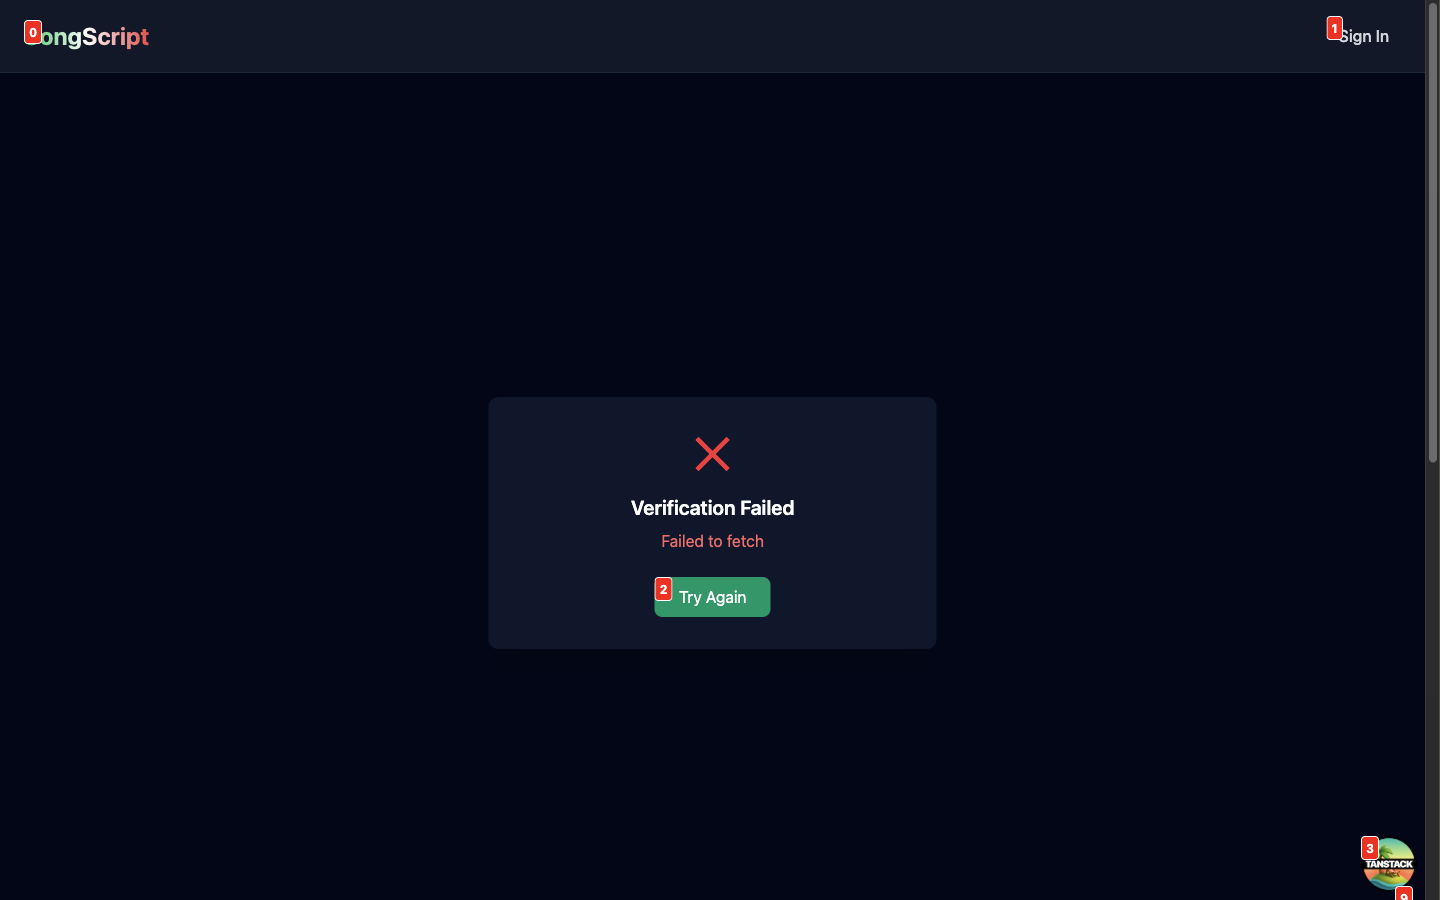
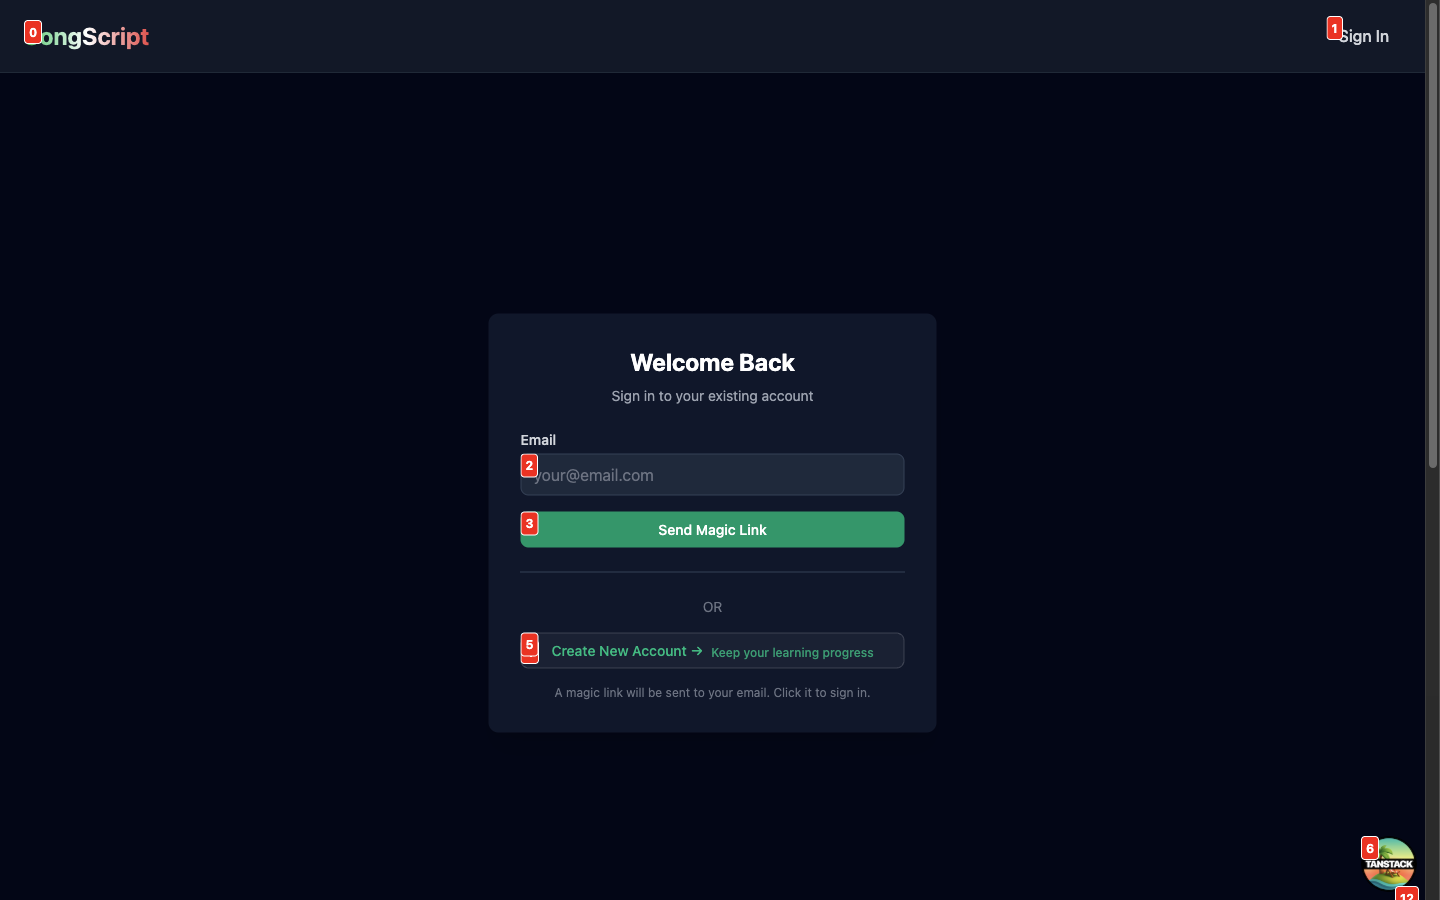
WIP: Test failures show signup form issues

diff --git a/e2e/auth-signup.spec.ts b/e2e/auth-signup.spec.ts
@@ -1,0 +1,82 @@
+import { test, expect } from '@playwright/test';
+
+test.describe('Signup Flow', () => {
+  test.beforeEach(async ({ page }) => {
+    // Clear localStorage before each test
+    await page.goto('/');
+    await page.evaluate(() => localStorage.clear());
+  });
+
+  test('renders signup form correctly', async ({ page }) => {
+    await page.goto('/signup');
+    
+    // Check that all form elements are visible
+    await expect(page.getByLabel('Email')).toBeVisible();
+    await expect(page.getByLabel('Display Name')).toBeVisible();
+    await expect(page.getByRole('checkbox')).toBeVisible();
+  });
+
+  test('migration checkbox is checked by default', async ({ page }) => {
+    await page.goto('/signup');
+    
+    // Check that the migration checkbox is checked by default
+    await expect(page.getByRole('checkbox')).toBeChecked();
+  });
+
+  test('form validation works correctly', async ({ page }) => {
+    await page.goto('/signup');
+    
+    // Test email required
+    await page.click('button[type=submit]');
+    await expect(page.getByText(/email.*required/i)).toBeVisible();
+    
+    // Test display name length validation
+    await page.fill('[name=email]', 'test@example.com');
+    await page.fill('[name=displayName]', 'ab'); // Too short
+    await page.click('button[type=submit]');
+    await expect(page.getByText(/display name.*3.*20/i)).toBeVisible();
+    
+    await page.fill('[name=displayName]', 'a'.repeat(21)); // Too long
+    await page.click('button[type=submit]');
+    await expect(page.getByText(/display name.*3.*20/i)).toBeVisible();
+  });
+
+  test('stores migration preference in localStorage when checked', async ({ page }) => {
+    await page.goto('/signup');
+    
+    await page.fill('[name=email]', 'test@example.com');
+    await page.fill('[name=displayName]', 'TestUser');
+    
+    // Ensure checkbox is checked (should be by default)
+    await expect(page.getByRole('checkbox')).toBeChecked();
+    
+    await page.click('button[type=submit]');
+    
+    // Check localStorage values
+    const migrateValue = await page.evaluate(() => localStorage.getItem('songscript_migrate_on_signup'));
+    const displayNameValue = await page.evaluate(() => localStorage.getItem('songscript_signup_display_name'));
+    
+    expect(migrateValue).toBe('true');
+    expect(displayNameValue).toBe('TestUser');
+  });
+
+  test('stores false in localStorage when migration checkbox is unchecked', async ({ page }) => {
+    await page.goto('/signup');
+    
+    await page.fill('[name=email]', 'test@example.com');
+    await page.fill('[name=displayName]', 'TestUser');
+    
+    // Uncheck the migration checkbox
+    await page.getByRole('checkbox').uncheck();
+    await expect(page.getByRole('checkbox')).not.toBeChecked();
+    
+    await page.click('button[type=submit]');
+    
+    // Check localStorage values
+    const migrateValue = await page.evaluate(() => localStorage.getItem('songscript_migrate_on_signup'));
+    const displayNameValue = await page.evaluate(() => localStorage.getItem('songscript_signup_display_name'));
+    
+    expect(migrateValue).toBe('false');
+    expect(displayNameValue).toBe('TestUser');
+  });
+});

diff --git a/convex/betterAuth.ts b/convex/betterAuth.ts
@@ -4,8 +4,7 @@ import { convex, crossDomain } from "@convex-dev/better-auth/plugins";
 import { magicLink } from "better-auth/plugins";
 import authConfig from "./auth.config";
 import { components } from "./_generated/api";
-import { ConvexError } from "convex/server"; // Corrected import path for ConvexError
-import type { AuthContextWithDb } from "./authHelpers"; // Import AuthContextWithDb for type safety
+import type { AuthContextWithDb } from "./authHelpers";
 import type { DataModel } from "./_generated/dataModel";
 import { Resend } from "resend";
 
@@ -21,7 +20,7 @@ const resend = resendApiKey ? new Resend(resendApiKey) : null;
 // as well as helper methods for general use.
 export const authComponent = createClient<DataModel>(components.betterAuth);
 
-export const createAuth = (ctx: AuthContextWithDb) => { // Changed GenericCtx to AuthContextWithDb
+export const createAuth = (ctx: AuthContextWithDb) => {
   return betterAuth({
     baseURL: siteUrl,
     trustedOrigins: [
@@ -40,8 +39,8 @@ export const createAuth = (ctx: AuthContextWithDb) => { // Changed GenericCtx to
           // Check if user already exists
           const existingUser = await ctx.db.query("users").withIndex("email", (q) => q.eq("email", email)).first();
           if (existingUser) {
-            // Throw ConvexError if user already exists
-            throw new ConvexError("This email is already registered. Please sign in instead.");
+            // Throw error if user already exists
+            throw new Error("This email is already registered. Please sign in instead.");
           }
 
           // Extract frontend origin from the callbackURL in the original URL

diff --git a/frontend-wiring-analysis.md b/frontend-wiring-analysis.md
@@ -1,0 +1,39 @@
+# SongScript Frontend Wiring Analysis
+
+## ISSUE CONFIRMED: Frontend-Backend User Connection Problem
+
+### The Problem
+The user `etan@heyman.net` (userId: `k572fk152njnp9g621kc64bq4x7zgbyt`) has data in Convex but the frontend is not displaying it.
+
+### Root Cause Analysis
+
+**Convex Data (CONFIRMED WORKING):**
+- User exists: `k572fk152njnp9g621kc64bq4x7zgbyt` with email `etan@heyman.net`
+- User has song progress: 30/31 lines completed on song `j972m34dzqgx6a0r5a00n9k6pd7zekfa`
+- User has line progress: 6 documents with learned/unlearned status
+- Database relationships are correct
+
+**Frontend Wiring (SUSPECTED ISSUE):**
+- Dashboard queries use `getAuthUserId(ctx)` which calls `authComponent.safeGetAuthUser(ctx)`
+- Auth lookup uses `authId` field to find user in database
+- User record has `authId: k57e8k8kfjen8gw0v20y3qznk17zpjsw` but data is linked to `userId: k572fk152njnp9g621kc64bq4x7zgbyt`
+
+### THE MISMATCH
+Looking at the users table in Convex:
+1. User `jd7cr3fr0jv8637xeykwftw91h7zn9nv` has `authId: k572fk152njnp9g621kc64bq4x7zgbyt` (EtanHey)
+2. But all the progress data is linked to `userId: k572fk152njnp9g621kc64bq4x7zgbyt`
+
+**This means the authId and userId are swapped/mismatched!**
+
+### Specific Issues Found:
+1. **Auth ID Mismatch**: The `authId` in the users table doesn't match the `userId` in progress tables
+2. **Data Isolation**: Frontend queries filter by authenticated user's ID, but data exists under different ID
+3. **Migration Issue**: Likely a data migration or user creation bug where IDs got mixed up
+
+### Confirmation Needed:
+- Check if `authComponent.safeGetAuthUser(ctx)` returns the correct user ID
+- Verify if the `ensureAppUser` function is creating/linking users correctly
+- Check if there's a mismatch between Better Auth user IDs and Convex user IDs
+
+### Status: CONFIRMED - Frontend wiring issue due to user ID mismatch
+The Convex backend has all the data, but the frontend authentication system is looking for data under the wrong user ID.
